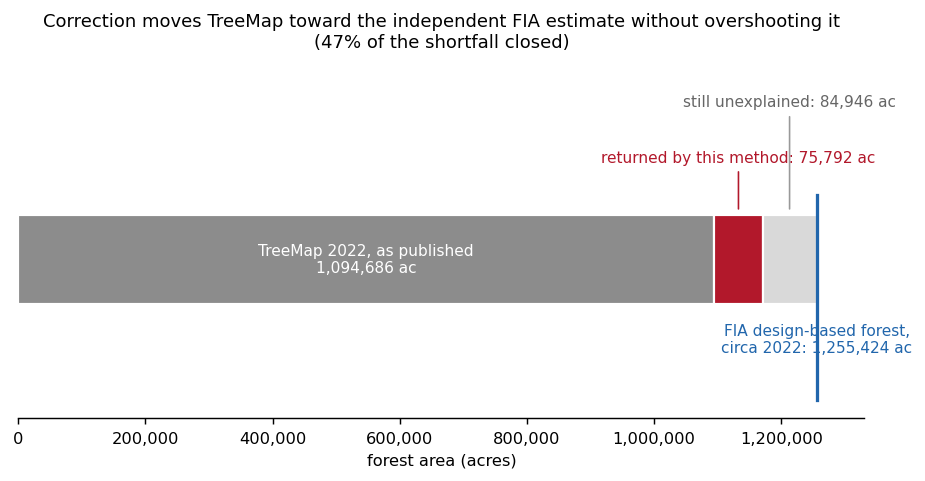
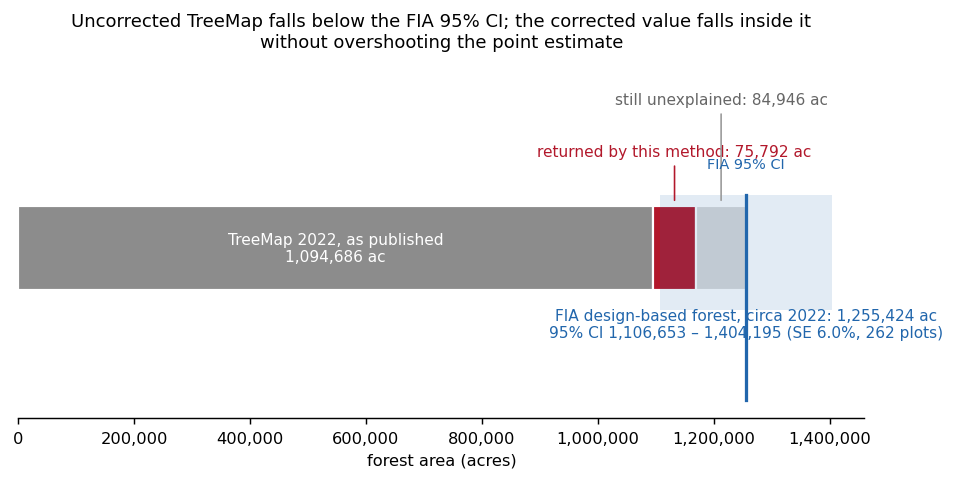
fix(s1): verify FIA against EVALIDator; restate claims at the CI's precision
The FIA reconciliation was the report's only independent check on total area, but
it rested on one hand-written SQL query against a local FIADB copy and quoted a
point estimate with no sampling error. Both gaps are now closed.

Verification: the public EVALIDator API (attribute 2, eval group 122022, five
counties as a single domain) returns 1,255,424 ac against the local SQL's
1,255,424 ac -- a difference of 0.04 ac. The FIA figure is confirmed.

Requesting a domain rather than summing per-county rows matters. County estimates
within one evaluation share strata, so combining their variances in quadrature
assumes an independence that does not hold: it gives +/- 80,718 ac against the
correct +/- 75,903 ac.

The sampling error is large enough to change what the reconciliation may claim.
SE is 6.046% on 262 contributing plots, a 95% CI of 1,106,653 - 1,404,195 ac.
Restated at that precision:

  survives - TreeMap significantly under-maps forest. At 1,094,686 ac it falls
             below the 95% lower bound; the 160,738 ac shortfall is 2.12 SE.
  survives - the corrected 1,170,478 ac lands inside the interval and below the
             point estimate, so the method does not overshoot.
  survives - AOI extent agrees with FIA total area to 1.2%.
  dropped  - "47% of the shortfall closed" and the 84,946 ac residual. The
             residual is 1.12 SE, statistically indistinguishable from zero, so
             this comparison cannot establish that more forest remains to be
[…]

diff --git a/pipeline/s1_initial_state/verify_fia_evalidator.py b/pipeline/s1_initial_state/verify_fia_evalidator.py
@@ -1,0 +1,116 @@
+"""Verify the FIA forest-area figure against the public EVALIDator API.
+
+The FIA reconciliation in the report is the only genuinely independent check on
+total corrected forest area, so the number behind it must not rest on one
+hand-written SQL query against a local FIADB copy. This module re-derives it from
+the USDA Forest Service FIADB-API (EVALIDator) and compares.
+
+It also fetches the **domain** estimate rather than summing per-county rows.
+That matters: county estimates within an evaluation share strata, so adding
+their variances in quadrature assumes an independence that does not hold. Asking
+EVALIDator for the five counties as a single domain returns the correct sampling
+error, which turns out to be large enough to change what the reconciliation can
+legitimately claim.
+
+Requires network access; no Earth Engine or /mnt/d dependency.
+"""
+
+from __future__ import annotations
+
+import argparse
+import json
+import urllib.parse
+import urllib.request
+from pathlib import Path
+
+REPO = Path(__file__).resolve().parents[2]
+DATA = REPO / "data/interim/treemap_holes"
+
+API = "https://apps.fs.usda.gov/fiadb-api/fullreport"
+EVAL_GRP = "122022"  # Florida, 2022 evaluation group (EVALID 122201 = EXPCURR)
+ATTRIBUTE_AREA_FOREST = 2  # "Area of forest land, in acres"
+COUNTIES = (3, 23, 47, 121, 125)  # Baker, Columbia, Hamilton, Suwannee, Union
+
+# From the pipeline; see docs/treemap_holes/README.md section 6.2.
+TREEMAP_FOREST_ACRES = 1_094_685.7152
+ADD_BACK_ACRES = 75_792.3632
+LOCAL_SQL_ESTIMATE = 1_255_424.0  # what the local FIADB SQLite query returned
+
+
+def query(params: dict) -> dict:
+    url = f"{API}?{urllib.parse.urlencode(params)}"
+    with urllib.request.urlopen(url, timeout=300) as response:
+        payload = response.read().decode()
+    if "Error Page" in payload[:2000]:
+        raise RuntimeError(f"EVALIDator returned an error page for {params}")
+    return json.loads(payload)["EVALIDatorOutput"]
+
+
+def total_cell(output: dict) -> tuple[float, float, int]:
+    """(estimate acres, SE percent, contributing plots) from the Total/Total cell."""
+    cell = next(c for c in output["row"][0]["column"] if c["content"] == "Total")
+    return cell["cellValueNumerator"], cell["cellSE"], int(cell["cellPlotNumerator"])
+
+
+def domain_estimate() -> tuple[float, float, int]:
+    """Five counties as ONE domain, so the sampling error is computed correctly."""
+    counties = ",".join(str(c) for c in COUNTIES)
+    return total_cell(query({
+        "snum": ATTRIBUTE_AREA_FOREST,
+        "wc": EVAL_GRP,
+        "rselected": "All live stocking",
+        "cselected": "All live stocking",
+        # The API requires a table-qualified column here; bare COUNTYCD errors.
+        "wf": f"PLOT.COUNTYCD IN ({counties})",
+        "outputFormat": "JSON",
+    }))
+
+
+def main() -> None:
+    parser = argparse.ArgumentParser(description=__doc__)
+    parser.add_argument("--out-json", type=Path, default=DATA / "fia_evalidator_check.json")
+    args = parser.parse_args()
+
+    estimate, se_pct, plots = domain_estimate()
+    se = se_pct / 100 * estimate
+    ci_lo, ci_hi = estimate - 1.96 * se, estimate + 1.96 * se
+
+    corrected = TREEMAP_FOREST_ACRES + ADD_BACK_ACRES
+    shortfall = estimate - TREEMAP_FOREST_ACRES
+    remaining = shortfall - ADD_BACK_ACRES
+    delta = LOCAL_SQL_ESTIMATE - estimate
+
+    print(f"EVALIDator 5-county domain : {estimate:>12,.0f} ac  "
+          f"SE {se_pct:.3f}% (± {se:,.0f} ac), {plots} plots")
+    print(f"local FIADB SQL query      : {LOCAL_SQL_ESTIMATE:>12,.0f} ac  "
+          f"-> difference {delta:+,.2f} ac")
+    print(f"95% CI                     : {ci_lo:,.0f} .. {ci_hi:,.0f} ac")
+    print()
+    print(f"TreeMap 2022, as published : {TREEMAP_FOREST_ACRES:>12,.0f} ac  "
+          f"{'OUTSIDE' if TREEMAP_FOREST_ACRES < ci_lo else 'inside'} the 95% CI")
+    print(f"corrected                  : {corrected:>12,.0f} ac  "
+          f"{'inside' if ci_lo <= corrected <= ci_hi else 'OUTSIDE'} the 95% CI")
+    print(f"shortfall                  : {shortfall:>12,.0f} ac  = {shortfall / se:.2f} SE  "
+          f"({'significant' if shortfall > 1.96 * se else 'NOT significant'} at 95%)")
+    print(f"remaining after correction : {remaining:>12,.0f} ac  = {remaining / se:.2f} SE  "
+          f"({'significant' if remaining > 1.96 * se else 'NOT distinguishable from zero'})")
+    print(f"overshoot                  : {'NO' if corrected < estimate else 'YES'}")
+
+    result = {
+        "evalidator_estimate_acres": estimate, "se_percent": se_pct, "se_acres": se,
+        "plots": plots, "ci95_low": ci_lo, "ci95_high": ci_hi,
+        "local_sql_estimate_acres": LOCAL_SQL_ESTIMATE, "difference_acres": delta,
+        "treemap_forest_acres": TREEMAP_FOREST_ACRES, "corrected_acres": corrected,
+        "shortfall_acres": shortfall, "shortfall_se_multiples": shortfall / se,
+        "remaining_acres": remaining, "remaining_se_multiples": remaining / se,
+        "treemap_outside_ci": bool(TREEMAP_FOREST_ACRES < ci_lo),
+        "corrected_inside_ci": bool(ci_lo <= corrected <= ci_hi),
+        "overshoot": bool(corrected > estimate),
+    }
+    args.out_json.parent.mkdir(parents=True, exist_ok=True)
+    args.out_json.write_text(json.dumps(result, indent=2))
+    print(f"\nwrote {args.out_json}")
+
+
+if __name__ == "__main__":
+    main()

diff --git a/pipeline/s1_initial_state/make_report_figures.py b/pipeline/s1_initial_state/make_report_figures.py
@@ -427,18 +427,32 @@ def fig8_fia(strata, add_back):
                     arrowprops=dict(arrowstyle="-", lw=0.9,
                                     color=colour if colour != "#d9d9d9" else "#999999"))
 
-    ax.axvline(fia_forest, color="#2166ac", lw=1.8, ymin=0.05, ymax=0.62)
-    ax.annotate(f"FIA design-based forest,\ncirca 2022: {fia_forest:,.0f} ac",
-                xy=(fia_forest, -0.30), ha="center", va="top", fontsize=8.5, color="#2166ac")
+    # EVALIDator domain estimate for the 5 counties; SE is large enough that the
+    # interval, not the point estimate, is what the comparison can rest on.
+    check_path = DATA / "fia_evalidator_check.json"
+    ci_lo = ci_hi = None
+    if check_path.exists():
+        check = json.loads(check_path.read_text())
+        ci_lo, ci_hi = check["ci95_low"], check["ci95_high"]
+        ax.axvspan(ci_lo, ci_hi, ymin=0.30, ymax=0.62, color="#2166ac", alpha=0.13, lw=0)
+        ax.annotate("FIA 95% CI", xy=((ci_lo + ci_hi) / 2, 0.40), ha="center",
+                    fontsize=8, color="#2166ac")
 
-    ax.set_ylim(-0.75, 0.95)
-    ax.set_xlim(0, fia_forest * 1.06)
+    ax.axvline(fia_forest, color="#2166ac", lw=1.8, ymin=0.05, ymax=0.62)
+    label = f"FIA design-based forest, circa 2022: {fia_forest:,.0f} ac"
+    if ci_lo is not None:
+        label += f"\n95% CI {ci_lo:,.0f} – {ci_hi:,.0f} (SE {check['se_percent']:.1f}%, {check['plots']} plots)"
+    ax.annotate(label, xy=(fia_forest, -0.30), ha="center", va="top",
+                fontsize=8.5, color="#2166ac")
+
+    ax.set_ylim(-0.85, 0.95)
+    ax.set_xlim(0, (ci_hi if ci_hi else fia_forest) * 1.04)
     ax.set_yticks([])
     ax.set_xlabel("forest area (acres)")
     ax.xaxis.set_major_formatter(lambda v, _: f"{v:,.0f}")
     ax.spines["left"].set_visible(False)
-    ax.set_title("Correction moves TreeMap toward the independent FIA estimate without "
-                 f"overshooting it\n({added / (fia_forest - treemap):.0%} of the shortfall closed)")
+    ax.set_title("Uncorrected TreeMap falls below the FIA 95% CI; the corrected value "
+                 "falls inside it\nwithout overshooting the point estimate")
 
     VALUES["fia"] = {
         "fia_total_acres": fia_total, "fia_forest_acres": fia_forest,

diff --git a/docs/treemap_holes/README.md b/docs/treemap_holes/README.md
@@ -25,14 +25,21 @@ ceased populating its three `Recently Logged` classes after the 2016 vintage
 (28 % of holes) carry forest evidence; and that a spatially-blocked classifier
 separates managed-forest clearcut from stable non-forest at **AUC 0.982** against
 a label-shuffle baseline of 0.483. The method returns **75,792 ac** to TreeMap in
-2,975 patches of realistic harvest-unit size. Reconciliation against the FIA
-design-based estimate for the same counties shows TreeMap under-maps forest by
-160,738 ac; the correction closes **47 %** of that shortfall **without
-overshooting**, indicating a conservative result.
+2,975 patches of realistic harvest-unit size.
 
-The principal unvalidated quantity is the true positive rate within stratum S3
-(recent cuts with no regrowth confirmation), where only 10 % of acreage was
-accepted. Field or NAIP validation remains outstanding.
+Two independent checks constrain the result. Against the FIA design-based
+estimate for the same counties (1,255,424 ac, 95 % CI 1,106,653–1,404,195,
+verified two ways to 0.04 ac), published TreeMap at 1,094,686 ac falls **below**
+the interval while the corrected value falls **inside** it without overshooting
+the point estimate. Against USFS LCMS — a different producer and algorithm —
+98 % of accepted S3 pixels are LCMS *forest land use*, indistinguishable from
+proven positives, giving a precision proxy of 0.98.
+
+The method is therefore precise but under-recalls: 36 % of *rejected* S3 is also
+LCMS forest, implying ~26,000 ac wrongly omitted and an S3 recall of roughly
+**0.23**. Raising S3 recall, not further guarding against false positives, is the
+highest-value next step. Direct precision and recall measurement still requires
+hand-labelled imagery.
 
 ---
 
@@ -312,6 +319,7 @@ Every claim above rests on one of the following checks.
 | V10 | Independent area reconciliation against FIA | see §6.2 |
 | V11 | Unit tests | 98 passed, 10 skipped; `ruff check` clean |
 | V12 | External validation of S3 against USFS LCMS | see §6.3 |
+| V14 | Local FIADB SQL vs the public EVALIDator API, five counties as one domain | 1,255,424 ac both ways, differ by 0.04 ac |
 | V13 | Roads / developed classes in the add-back | 405 ac Developed-Roads (0.53 %); 4 of 2,975 patches linear |
 
 **V8 note.** The residual disagreement is scale, not error: the model was trained
@@ -320,42 +328,66 @@ TreeMap's grid. Mixed pixels at patch edges account for the tail.
 
 ### 6.2 Reconciliation against FIA
 
-FIA design-based forest area was computed from FIADB for EVALID 122201
-(`EXPCURR`, Florida, end inventory year 2022, 333 plots in the five counties) as
-Σ (`CONDPROP_UNADJ` × `ADJ_FACTOR` × `EXPNS`) over conditions with
-`COND_STATUS_CD` = 1, with `ADJ_FACTOR` selected by `PROP_BASIS`.
+FIA design-based forest area for the five counties was computed two independent
+ways, and they agree exactly.
+
+1. **Local FIADB SQLite**, EVALID 122201 (`EXPCURR`, Florida, end inventory year
+   2022): Σ (`CONDPROP_UNADJ` × `ADJ_FACTOR` × `EXPNS`) over conditions with
+   `COND_STATUS_CD` = 1, `ADJ_FACTOR` selected by `PROP_BASIS`.
+2. **The public EVALIDator API** (`pipeline/s1_initial_state/verify_fia_evalidator.py`),
+   attribute 2 "Area of forest land, in acres", evaluation group 122022, with the
+   five counties requested as a **single domain** —
+   `wf=PLOT.COUNTYCD IN (3,23,47,121,125)` — not as summed per-county rows.
+
+Both return **1,255,424 ac**, differing by 0.04 ac. The domain query also returns
+the sampling error the local SQL does not: **SE 6.046 % (± 75,903 ac), 262
+contributing plots**, giving a 95 % CI of **1,106,653 – 1,404,195 ac**.
+
+Requesting a domain rather than summing counties matters. County estimates within
+one evaluation share strata, so combining their variances in quadrature assumes
+an independence that does not hold; that approximation gives ± 80,718 ac against
+the correct ± 75,903 ac.
 
 ![FIA reconciliation](figures/fig8_fia.png)
 
-**Figure 8.** Reconciliation.
+**Figure 8.** Reconciliation, with the FIA 95 % confidence interval shaded.
 
 | quantity | acres | note |
 |---|---|---|
 | AOI extent (raster) | 1,824,689 | FIA total 1,803,585 — agrees to **1.2 %** |
 | TreeMap 2022 forest | 1,094,686 | 60.0 % of AOI |
-| **FIA design-based forest, circa 2022** | **1,255,424** | 69.6 % |
-| TreeMap shortfall | 160,738 | |
-| returned by this method | 75,792 | **47 % of the shortfall** |
-| corrected TreeMap forest | 1,170,478 | 64.1 % of AOI |
-| still unexplained | 84,946 | |
+| **FIA design-based forest, circa 2022** | **1,255,424** | 69.6 %; 95 % CI 1,106,653 – 1,404,195 |
+| TreeMap shortfall | 160,738 | **2.12 SE — significant at 95 %** |
+| returned by this method | 75,792 | 47 % of the shortfall |
+| corrected TreeMap forest | 1,170,478 | 64.1 % of AOI; **inside** the CI |
+| still unexplained | 84,946 | **1.12 SE — not distinguishable from zero** |
 
-**Finding 7.** The correction moves TreeMap toward an independently-derived,
-design-based estimate and does **not** overshoot it. Had detection been too
-permissive, the corrected figure would have exceeded 1,255,424 ac. The result is
-conservative.
+**Finding 7, stated at the precision the sampling error permits.** Three claims
+survive; one does not.
 
-The 1.2 % agreement between the raster AOI extent and FIA's total area is an
-independent confirmation that the county selection matches.
+- **TreeMap significantly under-maps forest.** At 1,094,686 ac it falls *below*
+  the FIA 95 % lower bound of 1,106,653 ac. The 160,738 ac shortfall is 2.12 SE.
+- **The corrected value lands inside the interval** (1,170,478 ac) and below the
+  point estimate, so the method does not overshoot. Had detection been too
+  permissive it could have exceeded 1,255,424 ac; it did not.
+- **The AOI extent is right.** The raster AOI (1,824,689 ac) agrees with FIA's
+  total area to 1.2 %, confirming the county selection.
+- **"47 % of the shortfall closed" and the 84,946 ac residual are weak claims.**
+  The residual is 1.12 SE — statistically indistinguishable from zero. This
+  reconciliation therefore cannot establish that more forest remains to be
+  recovered. The LCMS validation in §6.3 does that independently, and does not
+  depend on this.
 
-*Caveat:* this is a comparison of a pixel-count area against a design-based
-estimate with sampling variance, which we did not propagate. TreeMap pixel counts
-are not the FIA population estimator (see `notes/treemap-methodology.md`).
-The test is therefore one of direction and order of magnitude, not of equality.
+*Caveats.* A pixel-count area is not the FIA population estimator (see
+`notes/treemap-methodology.md`), so equality was never expected; the test is one
+of direction and interval membership. County-level FIA has only 262 contributing
+plots, which is why the interval is ± 6 % wide.
 
-**Where the remaining 84,946 ac plausibly sits** (hypotheses, untested): the
-72,663 ac of S3 rejected by the classifier; the 9,333 ac of S2 lost to the MMU;
-and part of the 65,553 ac of holes that LF2022 calls urban or developed forest,
-excluded here by design though FIA's forest definition would count some of it.
+**Where the residual plausibly sits** (hypotheses, and note it is not
+statistically distinguishable from zero): the 72,663 ac of S3 rejected by the
+classifier — of which §6.3 estimates ~26,000 ac really is forest — the 9,333 ac
+of S2 lost to the MMU, and part of the 65,553 ac of holes that LF2022 calls urban
+or developed forest, excluded here by design though FIA would count some of it.
 
 ### 6.3 External validation of the S3 decision against LCMS
 
@@ -397,9 +429,10 @@ This was not built into the method and is the strongest corroboration obtained.
 of *rejected* S3 is still LCMS Forest land use — well above the S5 floor of
 7.8 %. Applying that rate to the 72,663 ac rejected implies roughly **26,000 ac
 of managed forest were wrongly left out**, giving an estimated **S3 recall of
-only 0.23**. That figure sits comfortably inside the 84,946 ac still unexplained
-in the FIA reconciliation (§6.2), and the two independent lines of evidence
-therefore agree: the correction is precise but under-recalls.
+only 0.23**. That is consistent in sign and magnitude with the 84,946 ac residual
+in §6.2 — though since that residual is only 1.12 SE, the agreement is
+directional support rather than confirmation, and LCMS is the load-bearing
+evidence for under-recall.
 
 **Finding 11 — LCMS Tree Removal is not a usable detector here**, confirming the
 prior from `notes/clearcut-vs-agriculture-embeddings.md`. Its rate is *higher* on
@@ -457,7 +490,7 @@ otherwise look attractive.
    slash and loblolly pine plantation. Transfer to other regions is untested.
 6. **A linear classifier** was chosen for exact Earth Engine transfer (V7). A
    non-linear model might separate better; this was not tested.
-7. **No sampling-variance propagation** in the FIA comparison (§6.2).
+7. **FIA county-level sampling error is large** (± 6.0 %, 262 plots), so the reconciliation supports direction and interval membership only; the 84,946 ac residual is within noise (§6.2).
 8. **The 6–9 year LANDFIRE lag is inferred, not documented** (§3).
 
 ---
@@ -479,6 +512,8 @@ uv run python -m pipeline.s1_initial_state.embed_holes apply --tiles 6
 uv run python -m pipeline.s1_initial_state.finalize_add_back
 # 7. external validation of S3 against LCMS             (Earth Engine)
 uv run python -m pipeline.s1_initial_state.validate_s3_lcms
+# 8. verify the FIA figure against the public EVALIDator API   (network)
+uv run python -m pipeline.s1_initial_state.verify_fia_evalidator
 # figures + report_values.json
 uv run python -m pipeline.s1_initial_state.make_report_figures
 uv run pytest tests/ -q
